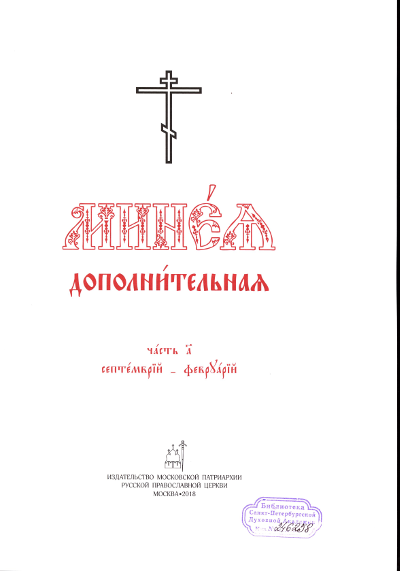
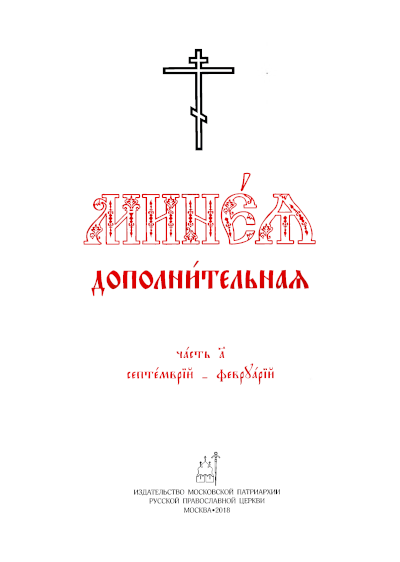
Fix cover

diff --git a/MineyaAugust1996/chapters/15.md b/MineyaAugust1996/chapters/15.md
@@ -54,6 +54,8 @@
 ~Двє́ри нбⷭ҇ныѧ возми́тесѧ, ꙳ зрѧ́ще две́рь вы́шнѧгѡ, ꙳ и҆дꙋ́щꙋ со сла́вою ꙳ къ
 сн҃ꙋ и҆ бг҃ꙋ. <<285>>
 
+=Тропа́рь, гла́съ а҃:=
+
 ~Въ ржⷭ҇твѣ̀ дѣ́вство сохрани́ла є҆сѝ, во ᲂу҆спе́нїи мі́ра не ѡ҆ста́вила є҆сѝ,
 бцⷣе, преста́виласѧ є҆сѝ къ животꙋ̀, мт҃и сꙋ́щи живота̀: и҆ моли́твами твои́ми
 и҆збавлѧ́еши ѿ сме́рти дꙋ́шы на́шѧ.
